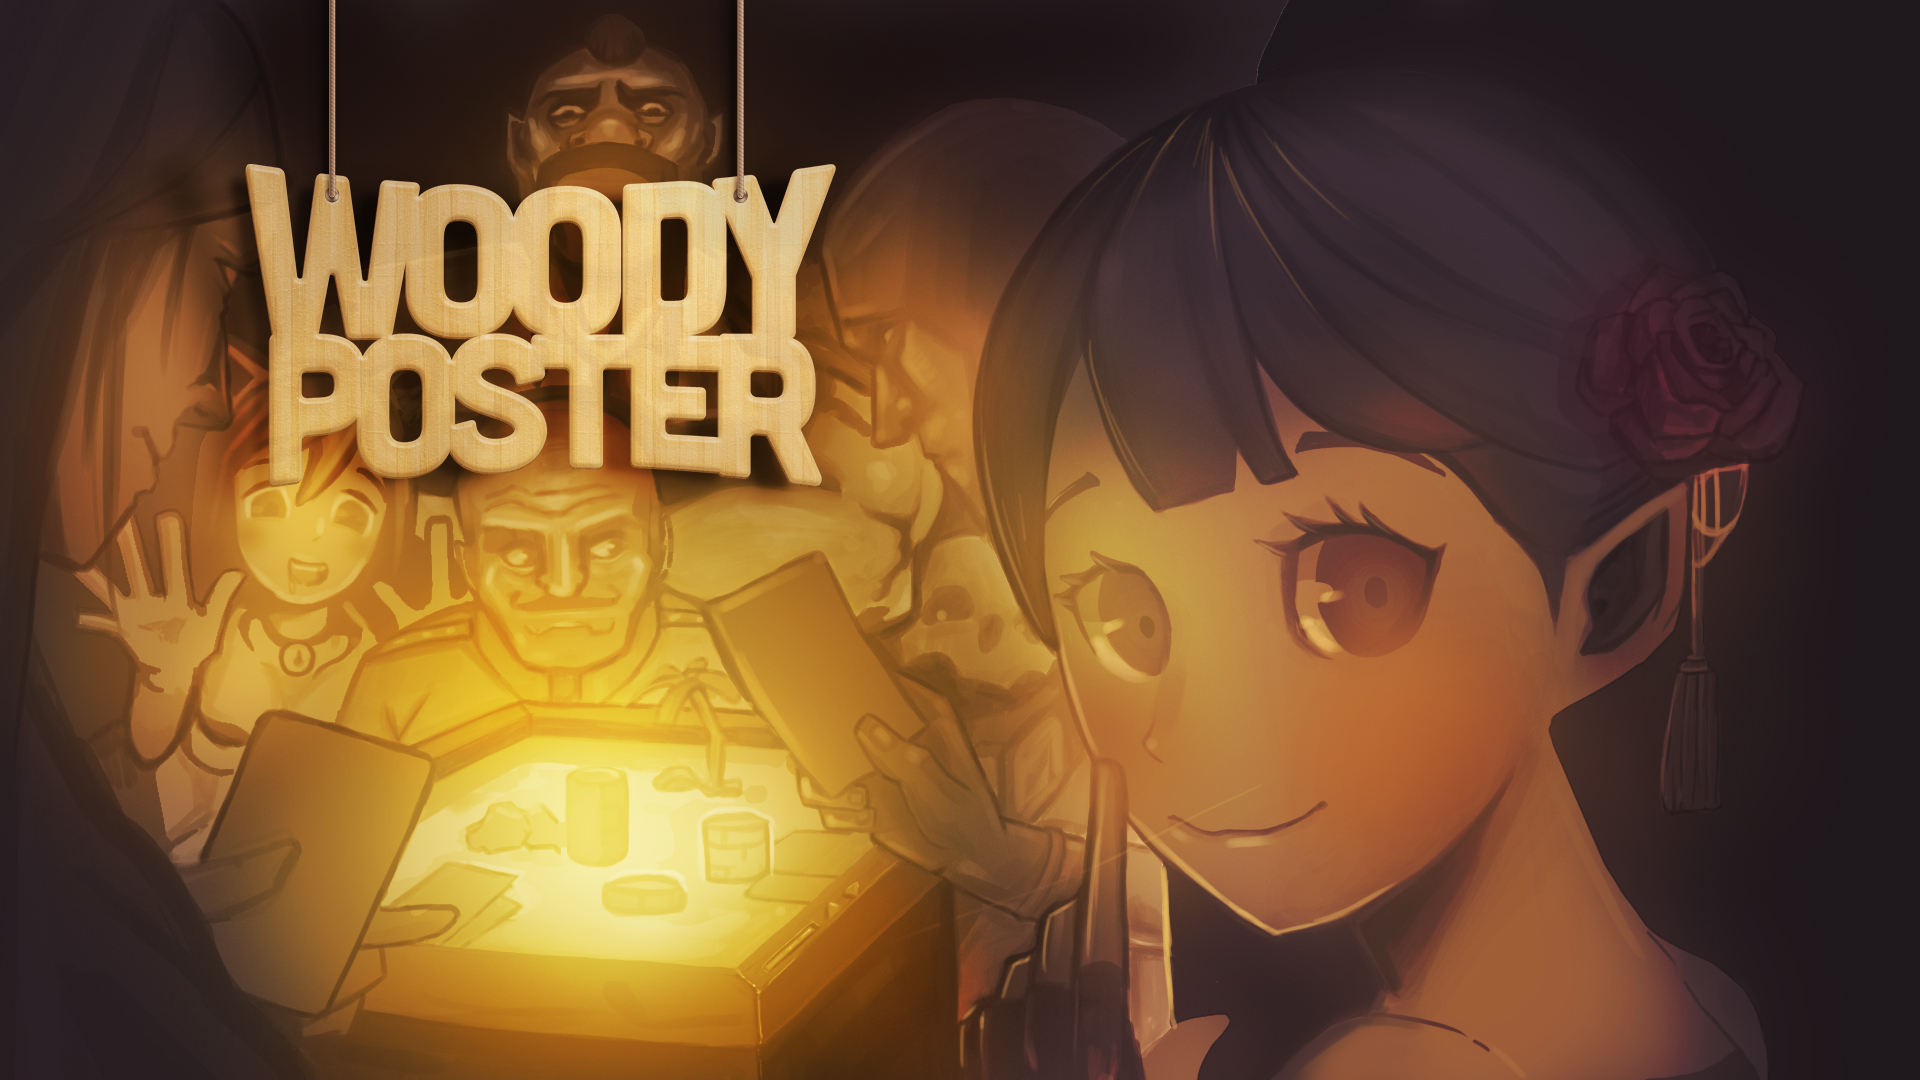
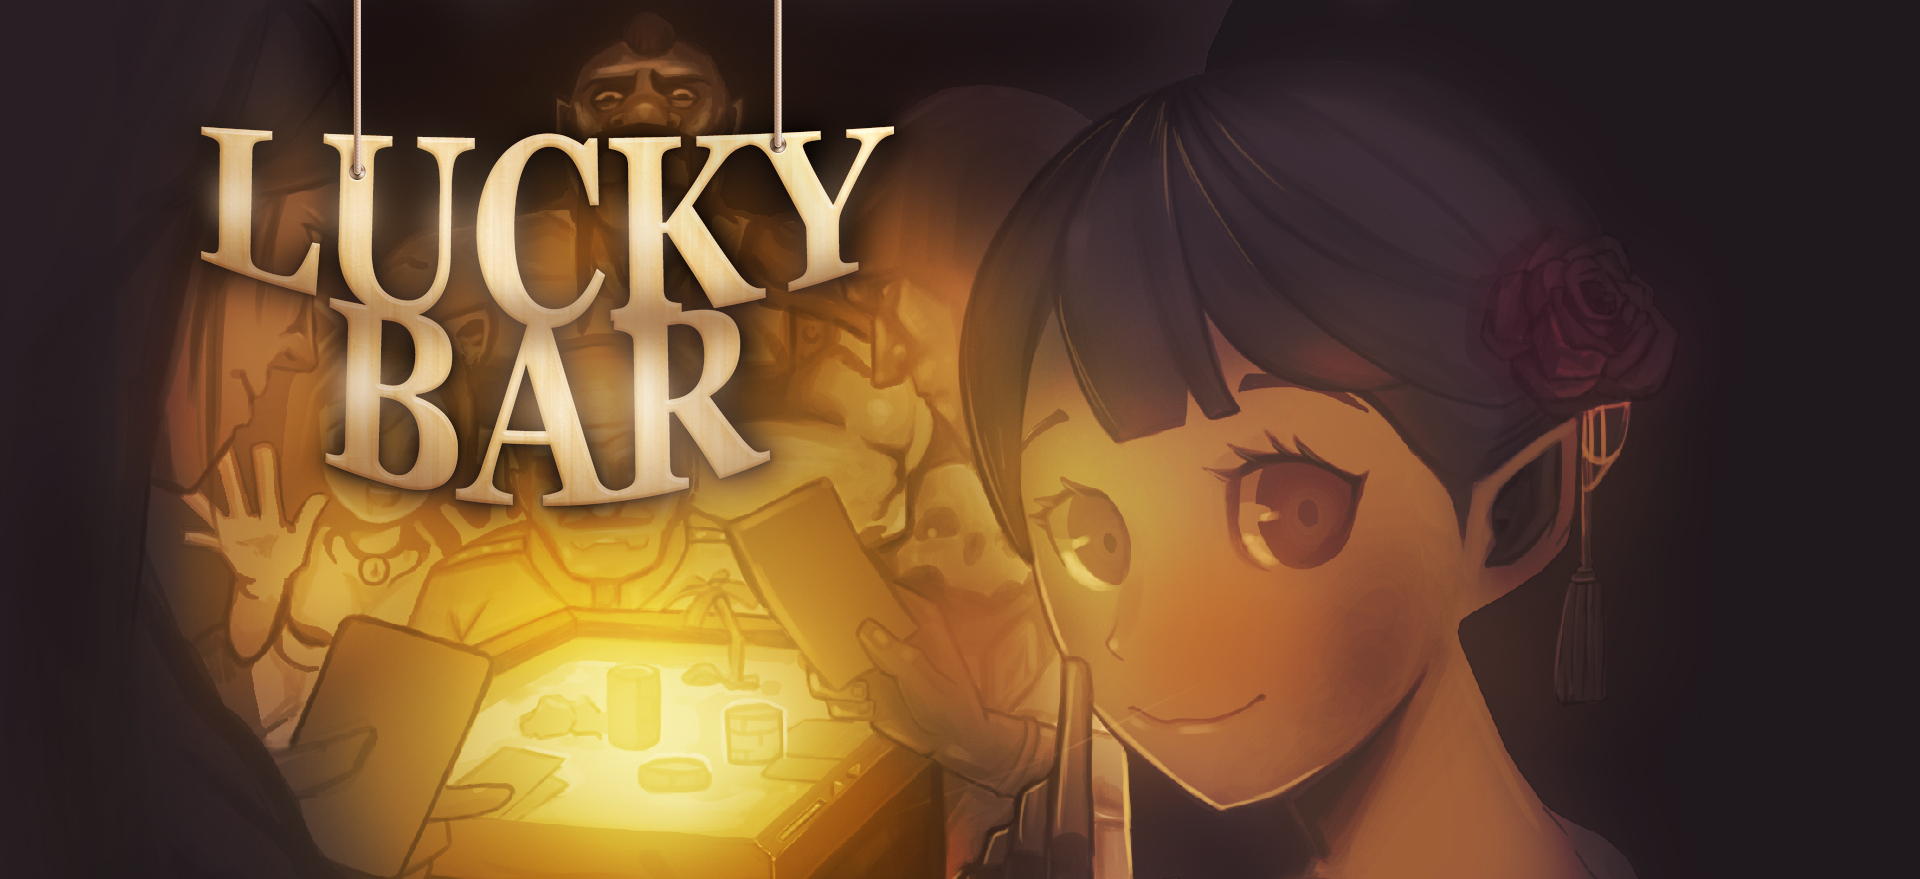
background changed

diff --git a/src/components/Header.vue b/src/components/Header.vue
@@ -1,13 +1,18 @@
 <template>
-<div class="navbar-nav headerimg">
-        <el-row :gutter="12" style="padding-top:600px">
-            <el-col :span="2" :offset="5">           
-                <a v-scroll-to="'#section1'" ><img src="../assets/play_button.png"/></a>
+<div class="headerimg">
+    <dir style="position: relative; z-index:1; margin: 0px; padding:0px">
+        <img src="../assets/lucky_header.jpg" alt="">
+    </dir>
+    <dir style="position: relative; z-index:2; top:-300px">
+        <el-row :gutter="12">
+            <el-col :span="2" :offset="4" style="cursor: pointer">           
+                <a v-scroll-to="'#section1'" ><img src="../assets/play_button.png" style="width:300px"/></a>
                 <br><br>
-                <a v-scroll-to="'#section2'" ><img src="../assets/help_button.png"/></a>
-            
+                <a v-scroll-to="'#section2'" ><img src="../assets/help_button.png" style="width:300px"/></a>
+                <br><br>
             </el-col>
         </el-row>
+    </dir>
 </div>
 </template>
 
@@ -18,15 +23,11 @@ export default {
 </script>
 
 <style>
-.headerimg{
+/* .headerimg{
     background-image: url("../assets/lucky_header.jpg");
-    height: 1050px;
     background-repeat: no-repeat;
     background-position: center center;
+} */
 
-}
-.header_container{
-    margin-top: 100px
-}
 
 </style>

diff --git a/src/components/casino-component.vue b/src/components/casino-component.vue
@@ -1,14 +1,16 @@
-<template>
+5<template>
 <div id="section1" >
   <div class="ingame" style="position: relative; z-index: 1; margin-top: 200px; ">
-    <img src="../assets/ingame.gif" style='height: 60%; width: 60%; object-fit: contain; margin-left: 400px'>
     <div  v-if="winEvent">
-        <img v-if="winEvent._status" id="has-won" src="../assets/win_ingame.gif" style='height: 60%; width: 60%; object-fit: contain; margin-left: 400px'>
-        <img v-else id="has-lost" src="../assets/lose_ingame.gif" style='height: 60%; width: 60%; object-fit: contain; margin-left: 400px'>
+        <img v-if="winEvent._status" id="has-won" src="../assets/win_ingame.gif" style='height: 60%; width: 60%; object-fit: contain; margin-left: 340px'>
+        <img v-else id="has-lost" src="../assets/lose_ingame.gif" style='height: 60%; width: 60%; object-fit: contain; margin-left: 340px'>
     </div>
+    <div v-else>
+        <img src="../assets/ingame.gif" style='height: 60%; width: 60%; object-fit: contain; margin-left: 340px'>
+    </div>    
   </div>
 
-  <div style="position: relative; top: -600px; z-index: 2;">
+  <div style="position: relative; top: -700px; z-index: 2;">
     <el-row :gutter="24" style="opacity: 0.8; ">
       <el-col :span="1" :offset="16">                  
         <el-tabs type="border-card" style="width: 450px; text-align: center">

diff --git a/src/components/Question.vue b/src/components/Question.vue
@@ -1,6 +1,9 @@
 <template>
-     <section class="bg-light" id="section2">
-       <br><br><br><br><br>
+     <div class="bg-light" id="section2">
+       <br><br><br>
+      <div>
+        <img src="../assets/dona.jpg" alt="" style="height:800px; float: right">
+      </div>
       <div class="row">
         <div class="col-lg-8 mx-auto">
           <h1>FAQ</h1>
@@ -26,7 +29,8 @@
           <p class="lead">Nothing! All of the ether raised by tickets goes to the winner. </p>
         </div>
       </div>
-    </section>   
+
+    </div>   
 </template>
 
 <script>
@@ -36,5 +40,8 @@ export default {
 </script>
 
 <style>
-
+/* .bg-light{
+    background-image: url("../assets/dona.jpg");
+    background-repeat: no-repeat;
+} */
 </style>
